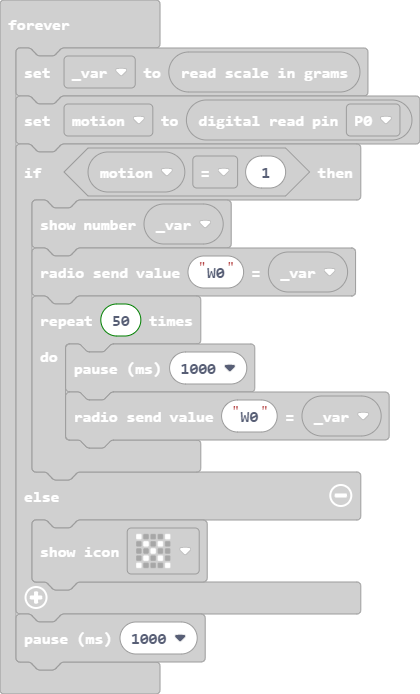
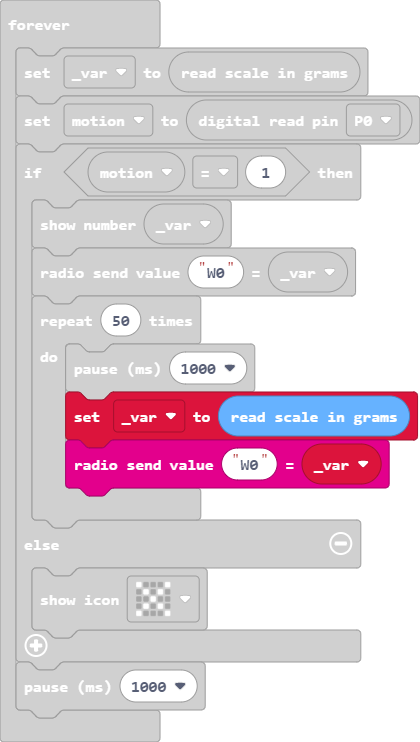
Update main.blocks, main.ts

diff --git a/main.ts b/main.ts
@@ -26,6 +26,8 @@ basic.forever(function () {
         radio.sendValue("W0", _var)
         for (let index = 0; index < 50; index++) {
             basic.pause(1000)
+            _var = SGBotic.read_grams(
+            )
             radio.sendValue("W0", _var)
         }
     } else {
